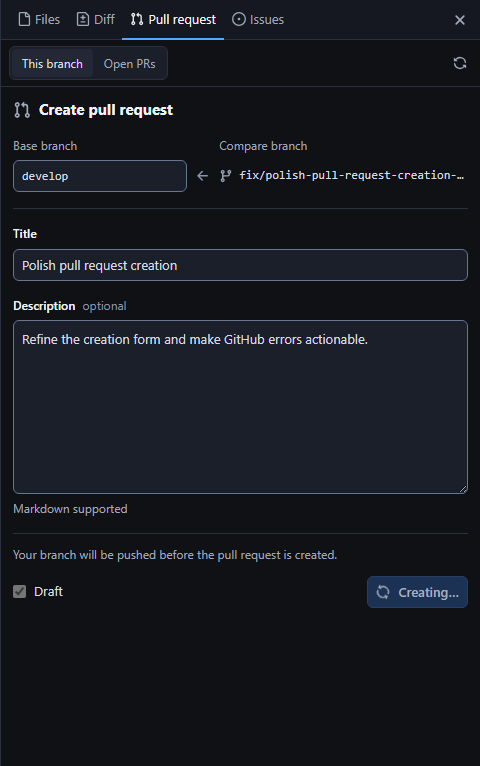
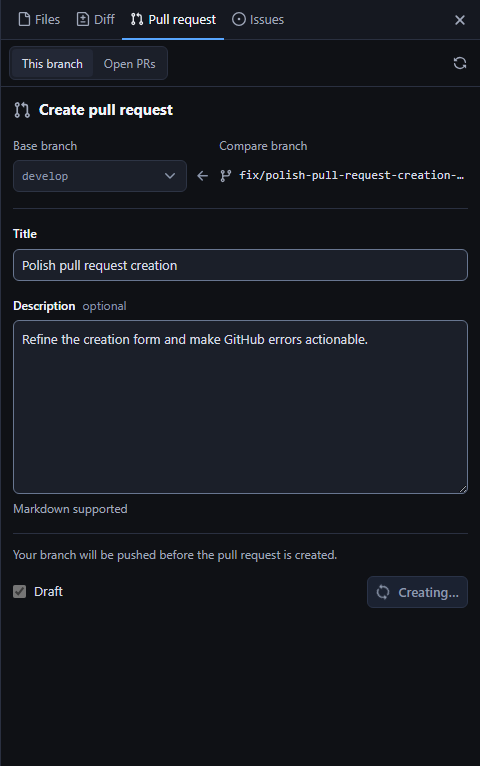
feat(pr): choose base from GitHub branches (#169)

Changed region(s): [[0.75, 0.7507, 1.0, 0.8107], [0.0312, 0.2102, 0.1562, 0.2402]]

diff --git a/web/src/PullRequestPanel.test.tsx b/web/src/PullRequestPanel.test.tsx
@@ -26,6 +26,7 @@ beforeEach(() => {
   vi.spyOn(commands, "pullRequestDraft").mockResolvedValue({
     status: "ok", data: { title: "Polish PR creation", body: "Changes and validation.", base: "main", head: branch },
   });
+  vi.spyOn(commands, "pullRequestBaseBranches").mockResolvedValue({ status: "ok", data: ["develop", "main", "release/next", branch] });
 });
 afterEach(async () => {
   await act(() => root.unmount());
@@ -50,6 +51,28 @@ async function edit(name: string, value: string) {
     el.dispatchEvent(new Event("input", { bubbles: true }));
   });
 }
+function baseSelect() {
+  return host.querySelector<HTMLButtonElement>(".pr-base-select")!;
+}
+async function chooseBase(name: string) {
+  await act(async () => baseSelect().click());
+  const option = Array.from(document.querySelectorAll<HTMLElement>('[role="option"]'))
+    .find((option) => option.textContent === name)!;
+  await act(async () => option.click());
+}
+
+it("offers GitHub branches, selects the default and excludes the PR's own branch", async () => {
+  const create = vi.spyOn(commands, "createPullRequest").mockResolvedValue({ status: "error", error: { message: diagnostic } });
+  await render();
+  expect(baseSelect().getAttribute("aria-label")).toBe("Base branch: main");
+  expect(host.querySelector('input[aria-label="Base branch"]')).toBeNull();
+  await act(async () => baseSelect().click());
+  expect(Array.from(document.querySelectorAll('[role="option"]')).map((option) => option.textContent))
+    .toEqual(["develop", "main", "release/next"]);
+  await act(async () => document.querySelector<HTMLElement>('[role="option"]')!.click());
+  await submit();
+  expect(create).toHaveBeenCalledWith(1, "Polish PR creation", "Changes and validation.", "develop", false);
+});
 
 it("preserves the draft on failure and offers readable recovery with the original diagnostic", async () => {
   vi.spyOn(commands, "createPullRequest").mockResolvedValue({ status: "error", error: { message: diagnostic } });
@@ -64,19 +87,13 @@ it("preserves the draft on failure and offers readable recovery with the origina
   expect(host.querySelector("textarea")!.value).toBe("Changes and validation.");
   expect(host.querySelector<HTMLButtonElement>('[type="submit"]')!.disabled).toBe(false);
   expect(onChanged).not.toHaveBeenCalled();
-  await edit("base", "develop");
+  await chooseBase("develop");
   expect(host.querySelector('[role="alert"]')).toBeNull();
 });
 
-it("blocks an identical base branch and empty titles, including programmatic submission", async () => {
+it("blocks empty titles, including programmatic submission", async () => {
   const create = vi.spyOn(commands, "createPullRequest");
   await render();
-  await edit("base", branch);
-  expect(input("base").getAttribute("aria-invalid")).toBe("true");
-  expect(host.querySelector<HTMLButtonElement>('[type="submit"]')!.disabled).toBe(true);
-  await submit();
-  expect(create).not.toHaveBeenCalled();
-  await edit("base", "main");
   await edit("title", "   ");
   await submit();
   expect(create).not.toHaveBeenCalled();
@@ -93,11 +110,52 @@ it("prevents duplicate keyboard submissions while pending and restores controls 
   });
   expect(create).toHaveBeenCalledTimes(1);
   expect(host.querySelector("form")!.getAttribute("aria-busy")).toBe("true");
-  expect(input("base").disabled).toBe(true);
+  expect(baseSelect().disabled).toBe(true);
   expect(host.querySelector("textarea")!.disabled).toBe(true);
   await act(async () => reject(new Error("Failed to connect to github.com")));
   expect(host.querySelector('[role="alert"]')!.textContent).toContain("Couldn’t reach GitHub");
-  expect(input("base").disabled).toBe(false);
+  expect(baseSelect().disabled).toBe(false);
+});
+
+it("blocks creation while branch choices load", async () => {
+  let resolve!: (result: { status: "ok"; data: string[] }) => void;
+  vi.mocked(commands.pullRequestBaseBranches).mockImplementation(() => new Promise((done) => { resolve = done; }));
+  const create = vi.spyOn(commands, "createPullRequest");
+  await render();
+  expect(baseSelect().disabled).toBe(true);
+  await submit();
+  expect(create).not.toHaveBeenCalled();
+  await act(async () => resolve({ status: "ok", data: ["main"] }));
+  expect(baseSelect().disabled).toBe(false);
+});
+
+it("preserves the form and offers retry when GitHub branches cannot be loaded", async () => {
+  vi.mocked(commands.pullRequestBaseBranches).mockResolvedValueOnce({ status: "error", error: { message: "HTTP 403" } });
+  await render();
+  expect(host.querySelector('[role="alert"]')!.textContent).toContain("Couldn’t load base branches");
+  expect(baseSelect().disabled).toBe(true);
+  expect(host.querySelector<HTMLButtonElement>('[type="submit"]')!.disabled).toBe(true);
+  await edit("title", "Keep this title");
+  await act(async () => Array.from(host.querySelectorAll("button")).find((button) => button.textContent === "Try again")!.click());
+  expect(baseSelect().getAttribute("aria-label")).toBe("Base branch: main");
+  expect(input("title").value).toBe("Keep this title");
+  expect(host.querySelector('[role="alert"]')).toBeNull();
+});
+
+it("uses another available branch when the preferred base is missing", async () => {
+  vi.mocked(commands.pullRequestBaseBranches).mockResolvedValue({ status: "ok", data: ["release/next", branch] });
+  await render();
+  expect(baseSelect().getAttribute("aria-label")).toBe("Base branch: release/next");
+});
+
+it("blocks creation if no other branch exists on GitHub", async () => {
+  vi.mocked(commands.pullRequestBaseBranches).mockResolvedValue({ status: "ok", data: [branch] });
+  const create = vi.spyOn(commands, "createPullRequest");
+  await render();
+  expect(host.querySelector('[role="status"]')!.textContent).toContain("No other branches");
+  expect(baseSelect().disabled).toBe(true);
+  await submit();
+  expect(create).not.toHaveBeenCalled();
 });
 
 it.each(["ctrlKey", "metaKey"])("submits with %s+Enter and preserves draft choice", async (modifier) => {

diff --git a/web/src/PullRequestPanel.tsx b/web/src/PullRequestPanel.tsx
@@ -6,6 +6,7 @@ import { createPrBlockedReason } from "./gitAction";
 import { PullRequestBrowser, PullRequestReview } from "./PullRequestBrowser";
 import { PullRequestError } from "./PullRequestError";
 import { describeCreatePrError } from "./createPullRequestError";
+import { Dropdown } from "./Dropdown";
 
 interface PullRequestPanelProps {
   projectId: number;
@@ -147,6 +148,8 @@ function PullRequestBody({
           projectId={projectId}
           git={git}
           draft={draft}
+          defaultBase={pr.defaultBranch ?? "main"}
+          refreshKey={refreshKey + manual}
           onCreated={() => {
             onChanged();
             onRefresh();
@@ -165,27 +168,57 @@ interface CreateFormProps {
   git: GitStatus;
   /** Title, body and base prefilled from the branch's commits; null if they couldn't be read. */
   draft: PullRequestDraft | null;
+  defaultBase: string;
+  refreshKey: number;
   onCreated: () => void;
 }
 
-function CreateForm({ projectId, git, draft: prefill, onCreated }: CreateFormProps) {
+type BaseBranches =
+  | { state: "loading" }
+  | { state: "error"; message: string }
+  | { state: "ready"; names: string[] };
+
+function CreateForm({ projectId, git, draft: prefill, defaultBase, refreshKey, onCreated }: CreateFormProps) {
   const id = useId();
   const submitting = useRef(false);
   const blocked = createPrBlockedReason(git);
   const [form, setForm] = useState<Pick<PullRequestDraft, "title" | "body" | "base">>({
     title: prefill?.title ?? "",
     body: prefill?.body ?? "",
-    base: prefill?.base ?? "main",
+    base: prefill?.base ?? defaultBase,
   });
   const [draft, setDraft] = useState(false);
   const [busy, setBusy] = useState(false);
   const [error, setError] = useState<string | null>(null);
+  const [branches, setBranches] = useState<BaseBranches>({ state: "loading" });
+  const [branchRetry, setBranchRetry] = useState(0);
+
+  useEffect(() => {
+    if (blocked) return;
+    let active = true;
+    void commands.pullRequestBaseBranches(projectId).then((result) => {
+      if (!active) return;
+      if (result.status === "error") {
+        setBranches({ state: "error", message: result.error.message });
+        return;
+      }
+      const names = result.data.filter((name) => name !== git.branch);
+      setBranches({ state: "ready", names });
+      setError(null);
+      setForm((current) => ({
+        ...current,
+        base: names.includes(current.base) ? current.base : names.includes(defaultBase) ? defaultBase : names[0] ?? "",
+      }));
+    }).catch((cause: unknown) => {
+      if (active) setBranches({ state: "error", message: cause instanceof Error ? cause.message : String(cause) });
+    });
+    return () => { active = false; };
+  }, [projectId, git.branch, blocked, defaultBase, refreshKey, branchRetry]);
 
   if (blocked) return <p className="pr-guidance">{blocked}</p>;
 
   const pushFirst = git.unpublished || git.ahead > 0;
-  const sameBranch = form.base.trim() === git.branch;
-  const canSubmit = !!form.title.trim() && !!form.base.trim() && !sameBranch;
+  const canSubmit = !!form.title.trim() && form.base !== git.branch && branches.state === "ready" && branches.names.includes(form.base);
   const feedback = error ? describeCreatePrError(error, form.base.trim()) : null;
   async function create() {
     if (submitting.current || !canSubmit) return;
@@ -220,17 +253,16 @@ function CreateForm({ projectId, git, draft: prefill, onCreated }: CreateFormPro
       </header>
       <div className="pr-create-branches" aria-label="Branch comparison">
         <div className="pr-create-base">
-          <label htmlFor={`${id}-base`}>Base branch</label>
-          <input
-            id={`${id}-base`}
-            className="mono"
-            value={form.base}
-            required
-            disabled={busy}
-            aria-invalid={sameBranch || undefined}
-            aria-describedby={sameBranch ? `${id}-base-error` : undefined}
-            onChange={(e) => {
-              setForm({ ...form, base: e.target.value });
+          <span>Base branch</span>
+          <Dropdown
+            label="Base branch"
+            triggerClassName="mono pr-base-select"
+            minMenuWidth={240}
+            value={branches.state === "loading" ? "Loading…" : branches.state === "error" ? "Unavailable" : form.base || "No branches"}
+            options={branches.state === "ready" ? branches.names.map((name) => ({ value: name, label: name })) : []}
+            disabled={busy || branches.state !== "ready"}
+            onChange={(base) => {
+              setForm({ ...form, base });
               setError(null);
             }}
           />
@@ -244,7 +276,16 @@ function CreateForm({ projectId, git, draft: prefill, onCreated }: CreateFormPro
           </span>
         </div>
       </div>
-      {sameBranch && <p id={`${id}-base-error`} className="pr-field-error" role="alert">Choose a base branch other than the current branch.</p>}
+      {branches.state === "error" && <PullRequestError
+        title="Couldn’t load base branches"
+        guidance="Try loading the branches from GitHub again. Your title and description are kept."
+        message={branches.message}
+        onRetry={() => {
+          setBranches({ state: "loading" });
+          setBranchRetry((n) => n + 1);
+        }}
+      />}
+      {branches.state === "ready" && branches.names.length === 0 && <p className="pr-create-hint" role="status">No other branches are available on GitHub.</p>}
       <div className="pr-create-field">
         <label htmlFor={`${id}-title`}>Title</label>
         <input

diff --git a/web/src/styles.css b/web/src/styles.css
@@ -772,6 +772,7 @@ html.macos .header,
 .pr-views :is(.pr-create-base, .pr-create-head, .pr-create-field) { display: grid; gap: 6px; min-width: 0; }
 .pr-views :is(.pr-create-base, .pr-create-head) > :first-child { color: var(--dim); font-size: 12px; }
 .pr-views .pr-form input:not([type="checkbox"]) { min-width: 0; min-height: 32px; }
+.pr-views .pr-base-select { height: 32px; min-height: 32px; }
 .pr-views .pr-create-arrow { align-self: end; margin-bottom: var(--space-2); color: var(--faint); }
 .pr-views .pr-create-branch { display: flex; align-items: center; gap: 6px; min-width: 0; height: 32px; color: var(--dim); }
 .pr-views .pr-create-branch .mono { overflow: hidden; text-overflow: ellipsis; white-space: nowrap; color: var(--fg); }
@@ -784,8 +785,6 @@ html.macos .header,
 .pr-views .pr-draft { gap: var(--space-2); min-height: 32px; cursor: pointer; color: var(--fg); }
 .pr-views .pr-draft input { margin: 0; }
 .pr-views .pr-create-actions button { min-height: 32px; justify-content: center; margin-left: auto; }
-.pr-views .pr-field-error { color: var(--red); font-size: 12px; overflow-wrap: anywhere; }
-.pr-views .pr-form [aria-invalid="true"] { border-color: var(--red); }
 
 /* Human-readable failures with the original CLI output one disclosure away. */
 .pr-views .pr-feedback { display: flex; align-items: flex-start; gap: var(--space-2); min-width: 0; padding: var(--space-3); border: 1px solid color-mix(in srgb, var(--red) 40%, var(--line)); border-radius: var(--radius-control); background: color-mix(in srgb, var(--red) 6%, var(--bg)); }

diff --git a/web/src/bindings.ts b/web/src/bindings.ts
@@ -110,6 +110,8 @@ export const commands = {
 	 *  asked; the Surface decides when to refresh.
 	 */
 	pullRequestState: (projectId: number) => typedError<PullRequestState_Serialize, AppError>(__TAURI_INVOKE("pull_request_state", { projectId })),
+	/**  The repository's branches on GitHub, for choosing a pull request's base. */
+	pullRequestBaseBranches: (projectId: number) => typedError<string[], AppError>(__TAURI_INVOKE("pull_request_base_branches", { projectId })),
 	/**  Title, body and base prefilled from the branch's commits. */
 	pullRequestDraft: (projectId: number) => typedError<PullRequestDraft, AppError>(__TAURI_INVOKE("pull_request_draft", { projectId })),
 	/**  Pushes the branch if needed, then opens a pull request for it. */

diff --git a/crates/oxide-core/tests/github.rs b/crates/oxide-core/tests/github.rs
@@ -167,6 +167,42 @@ fn input(title: &str, base: &str, draft: bool) -> PullRequestInput {
 }
 
 #[test]
+fn pr_base_branches_come_from_github_and_request_all_pages() {
+    let f = fixture();
+    f.core.create_branch(f.project.id, "local-only").unwrap();
+    let mut state = ok_state();
+    state["branches"] = serde_json::json!(["release/next", "main", "develop", "main"]);
+    install_gh(&f, state);
+    assert_eq!(
+        f.core.pull_request_base_branches(f.project.id).unwrap(),
+        vec!["develop", "main", "release/next"]
+    );
+    assert!(f.gh_calls().iter().any(|call| call
+        == &[
+            "api",
+            "repos/{owner}/{repo}/branches?per_page=100",
+            "--paginate",
+            "--jq",
+            ".[].name"
+        ]));
+}
+
+#[test]
+fn pr_base_branch_errors_are_not_reported_as_an_empty_list() {
+    let f = fixture();
+    let mut state = ok_state();
+    state["branches_error"] = serde_json::json!("HTTP 403: Resource not accessible");
+    install_gh(&f, state);
+    assert!(
+        f.core
+            .pull_request_base_branches(f.project.id)
+            .unwrap_err()
+            .to_string()
+            .contains("403")
+    );
+}
+
+#[test]
 fn missing_gh_is_reported_with_install_guidance_and_git_still_works() {
     let f = fixture(); // nothing on the PATH
     let state = f.core.pull_request_state(f.project.id).unwrap();

diff --git a/crates/oxide-core/src/github.rs b/crates/oxide-core/src/github.rs
@@ -466,6 +466,30 @@ pub fn pull_request_state(gh: &Gh, cwd: &Path) -> Result<PullRequestState> {
     Ok(state)
 }
 
+/// Branches that exist in the GitHub repository, including pages beyond the first.
+/// Local-only branches cannot receive a pull request.
+pub fn pull_request_base_branches(gh: &Gh, cwd: &Path) -> Result<Vec<String>> {
+    gh.require_ready(cwd)?;
+    let names = gh.run(
+        cwd,
+        &[
+            "api",
+            "repos/{owner}/{repo}/branches?per_page=100",
+            "--paginate",
+            "--jq",
+            ".[].name",
+        ],
+    )?;
+    let mut branches: Vec<String> = names
+        .lines()
+        .filter(|name| !name.is_empty())
+        .map(str::to_owned)
+        .collect();
+    branches.sort();
+    branches.dedup();
+    Ok(branches)
+}
+
 /// Title and body from the commits the branch adds to the default branch: a
 /// lone commit's own message, or the branch's name over a list of subjects.
 pub fn pull_request_draft(gh: &Gh, cwd: &Path) -> Result<PullRequestDraft> {

diff --git a/crates/oxide-app/src/lib.rs b/crates/oxide-app/src/lib.rs
@@ -1097,6 +1097,19 @@ async fn pull_request_state(
         .map(|state| convert(&state))
 }
 
+/// The repository's branches on GitHub, for choosing a pull request's base.
+#[tauri::command]
+#[specta::specta]
+async fn pull_request_base_branches(
+    core: State<'_, Arc<Core>>,
+    project_id: u32,
+) -> Result<Vec<String>, AppError> {
+    git_blocking(&core, move |core| {
+        core.pull_request_base_branches(project_id)
+    })
+    .await
+}
+
 /// Title, body and base prefilled from the branch's commits.
 #[tauri::command]
 #[specta::specta]
@@ -1878,6 +1891,7 @@ pub fn builder() -> Builder<tauri::Wry> {
         commit,
         push,
         pull_request_state,
+        pull_request_base_branches,
         pull_request_draft,
         create_pull_request,
         open_pull_request,

diff --git a/crates/oxide-core/src/lib.rs b/crates/oxide-core/src/lib.rs
@@ -1339,6 +1339,11 @@ impl Core {
         github::pull_request_state(&self.gh, &self.main_checkout(project_id)?)
     }
 
+    /// Branches on GitHub that can be selected as a pull request's base.
+    pub fn pull_request_base_branches(&self, project_id: u32) -> Result<Vec<String>> {
+        github::pull_request_base_branches(&self.gh, &self.main_checkout(project_id)?)
+    }
+
     /// Title, body and base prefilled for a new pull request of the current branch.
     pub fn pull_request_draft(&self, project_id: u32) -> Result<PullRequestDraft> {
         let cwd = self.main_checkout(project_id)?;

diff --git a/crates/oxide-core/fixtures/gh/gh.py b/crates/oxide-core/fixtures/gh/gh.py
@@ -74,6 +74,13 @@ if args[:2] == ["repo", "view"]:
     print(json.dumps(repo))
     sys.exit(0)
 
+if args[:2] == ["api", "repos/{owner}/{repo}/branches?per_page=100"]:
+    if state.get("branches_error"):
+        sys.stderr.write(state["branches_error"])
+        sys.exit(1)
+    print("\n".join(state.get("branches", [])))
+    sys.exit(0)
+
 if args[:2] == ["pr", "list"]:
     wanted = flag("--state") or "open"
     prs = [
